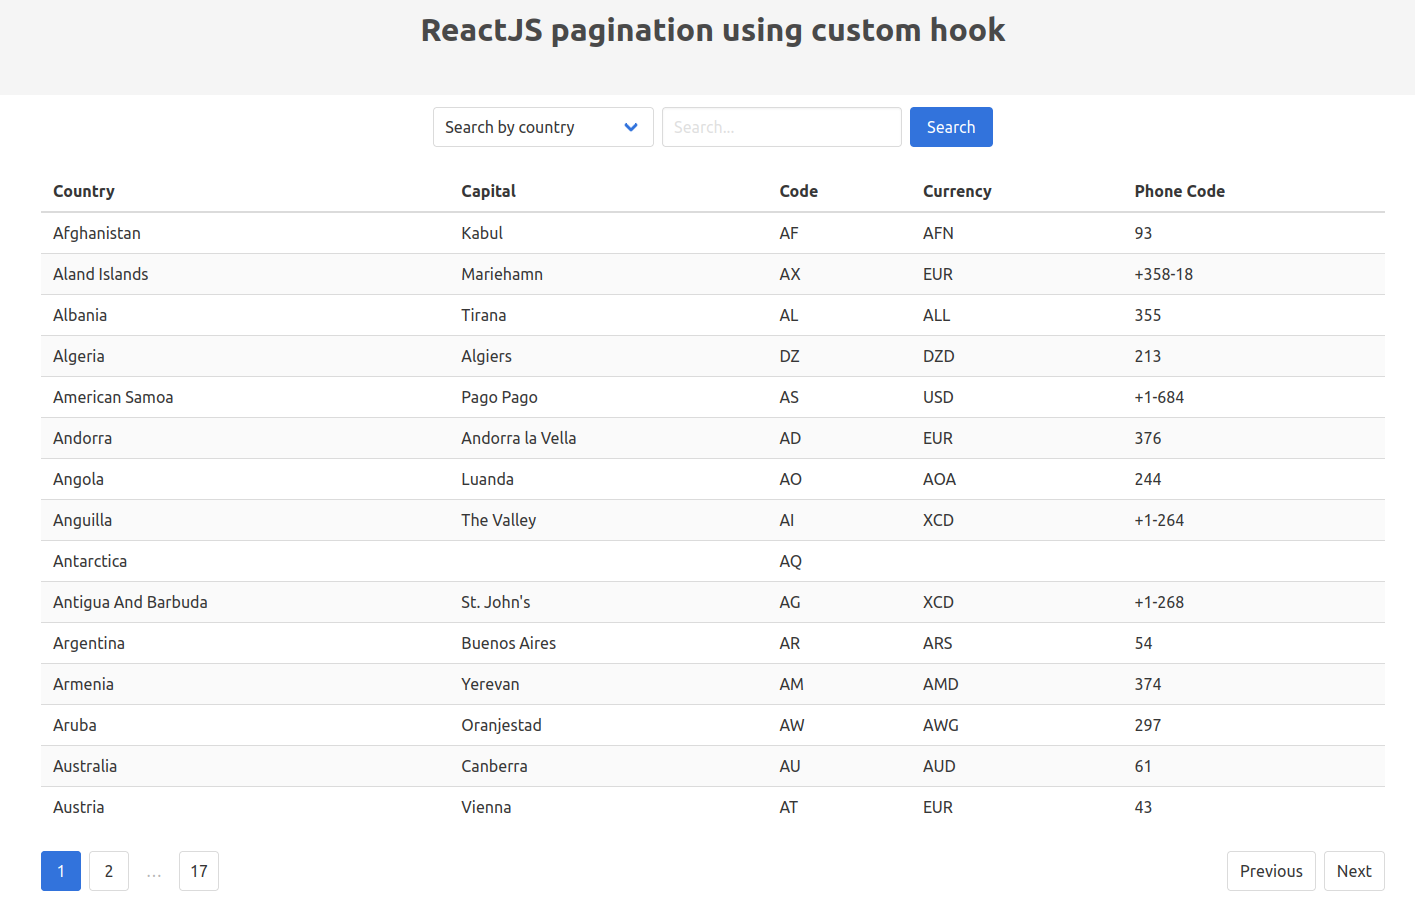
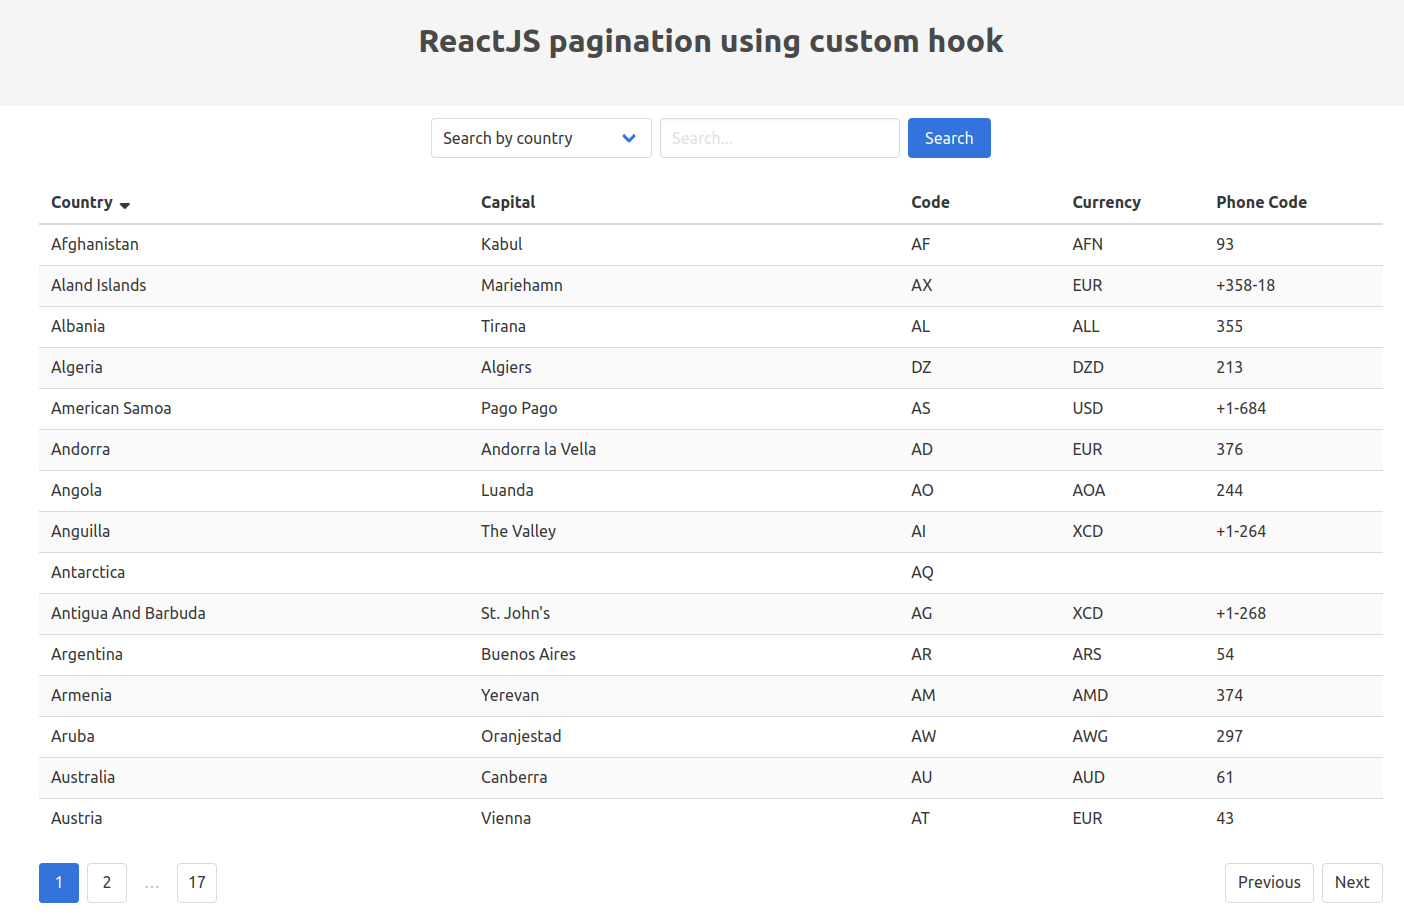
docs: update readme

diff --git a/README.md b/README.md
@@ -2,7 +2,7 @@
 
 ## 💻 Projeto
 
-Projeto desenvolvido com base nos vídeos [ReactJS pagination using custom hook][video-1] e [ReactJS pagination using custom hook part 2 - search][video-2], oferecido por [CodingFromScratch][channel].
+Projeto desenvolvido com base nos vídeos [ReactJS pagination using custom hook][video-1], [ReactJS pagination using custom hook part 2 - search][video-2] e [ReactJS pagination using custom hook part 3 - sorting][video-3], oferecido por [CodingFromScratch][channel].
 
 ## 🛠 Tecnologias
 
@@ -24,3 +24,4 @@ As seguintes tecnologias foram utilizadas no desenvolvimento do projeto:
 [typescript]: https://www.typescriptlang.org/
 [video-1]: https://www.youtube.com/watch?v=AFlFTAI5k-Q
 [video-2]: https://www.youtube.com/watch?v=xfwBzPbnM4k
+[video-3]: https://www.youtube.com/watch?v=uUMcMRTMljY
